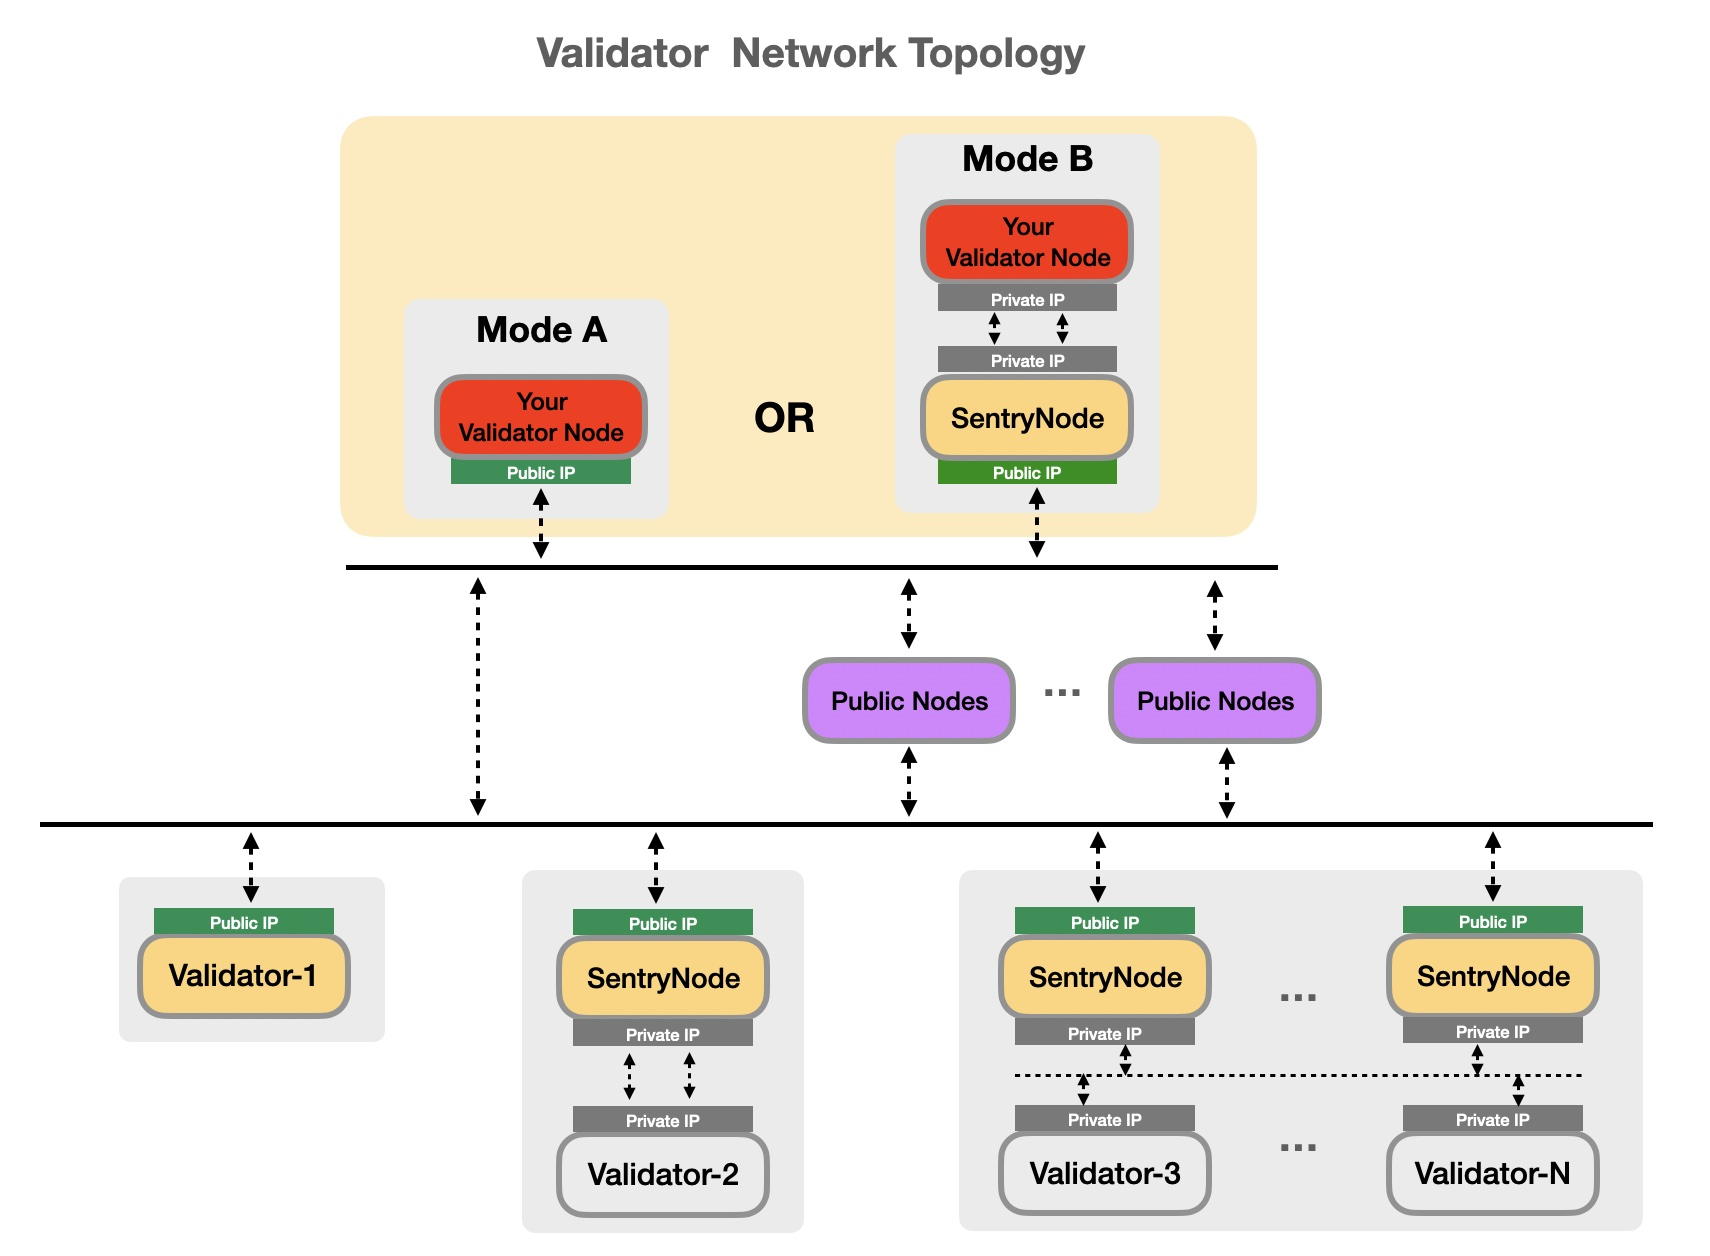
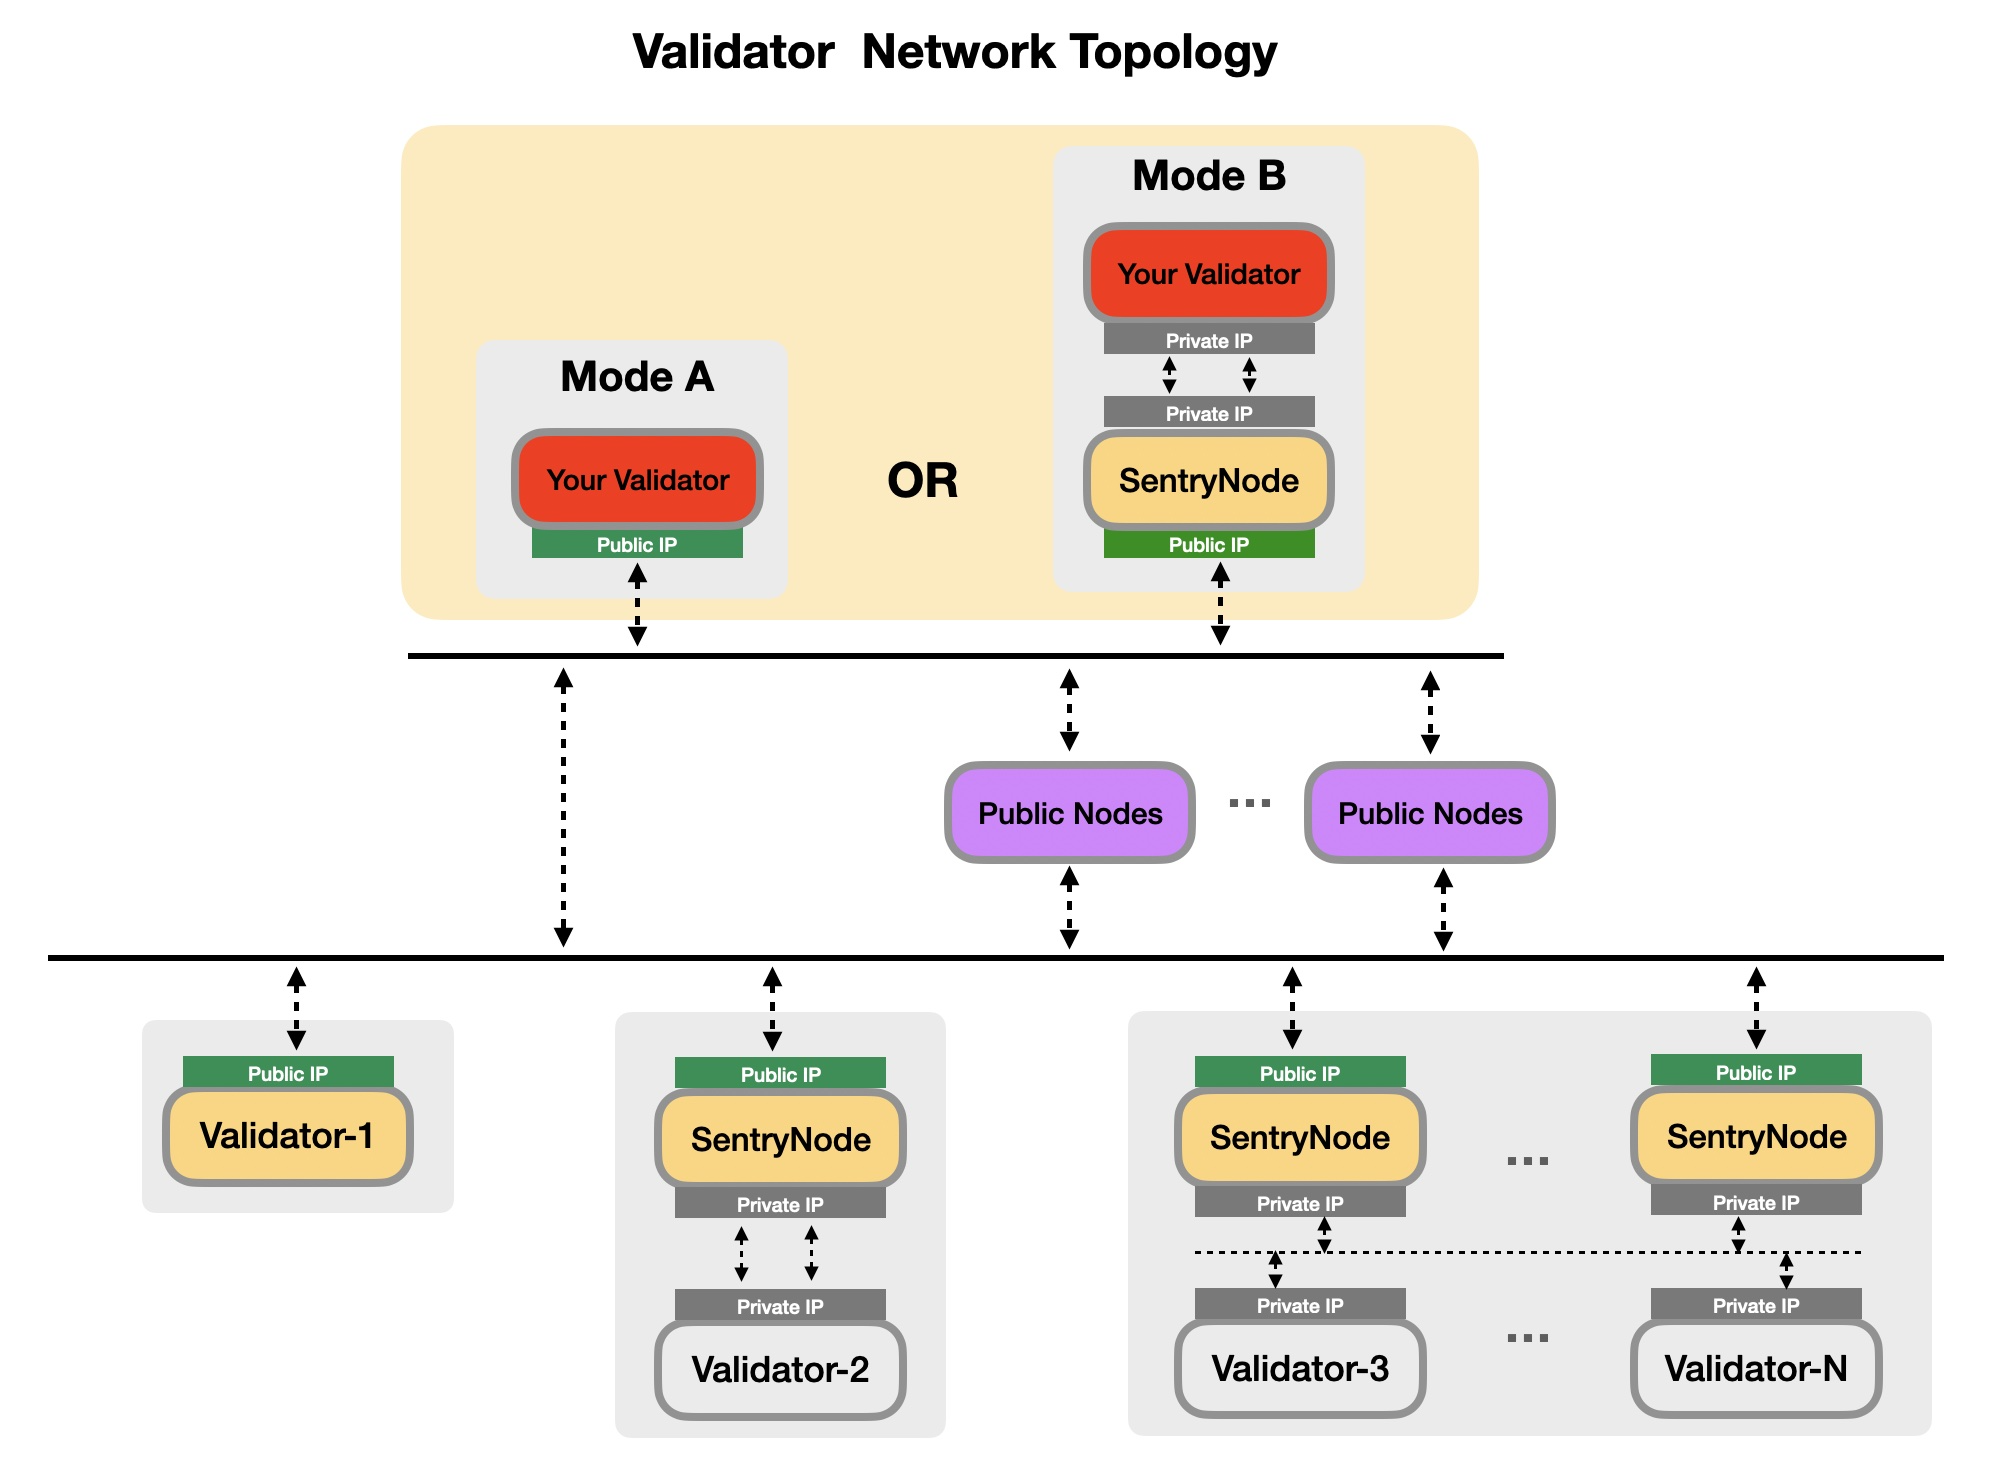
validator: refine the words

diff --git a/docs/bnb-smart-chain/validator/run-val.md b/docs/bnb-smart-chain/validator/run-val.md
@@ -130,10 +130,10 @@ miner.start()
 
 ## Some Tips & Tools
 ### 1.Run backup node
-Backup node could help in case your validator node run into trouble for various reasons.
+Backup node could help when your primary validator node encounters issues due to a variety of potential reasons, ensuring the continuity and reliability of your participation in the network.
 
 ### 2.How to check your node’s stability
-There is javascript in the BSC repo to dump the slash information for each validator.
+There is a javascript in BSC repo to dump the slash status of each validator.
 ```
 cd <bsc>/cmd/jsutils
 # 1.to dump the slashes of the lates block:
@@ -142,12 +142,12 @@ node getslashcount.js --Rpc https://bsc-mainnet.nodereal.io/v1/454e504917db4f82b
 # 2.you may also specify the block number:
 node getslashcount.js --Rpc https://bsc-mainnet.nodereal.io/v1/454e504917db4f82b756bd0cf6317dce --Num 39938351
 ```
-If your validator is stable, there should be very few or even zero slashes for each day. Basically, if your validator got slashed for more then 3 times for 1 day, it may worth a check.
+If your validator operates smoothly, you should expect minimal or even no penalties, known as "slashes," on a daily basis. Generally speaking, if your validator incurs more than three slashes within a single day, it would be prudent to investigate the cause for this anomaly.
 
 ### 3.About maintenance mode
-If your validator has been slashed for 50 times, it will enter maintenance mode. You need to check and recover your node ASAP, otherwise it could be in jail.
+Should your validator incur 50 slashes, it will automatically transition into maintenance mode. It is imperative to promptly diagnose and rectify any issues with your node to prevent further penalties. Failure to do so may result in your node being placed in a more restrictive state, often referred to as "jail."
 
-Once your node has been recovered, you need to exit the maintenance mode immediately, here is the manual : https://github.com/bnb-chain/bsc/blob/master/docs/parlia/README-BEP-127.md#exit-maintenance
+Upon successfully restoring your node's functionality, it is crucial to promptly [exit maintenance mode](https://github.com/bnb-chain/bsc/blob/master/docs/parlia/README-BEP-127.md#exit-maintenance) to resume normal operations and avoid any unnecessary downtime or penalties.
 ```
 // note: replace "0x75B851a27D7101438F45fce31816501193239A83" with your validator's consensus address.
 geth attach geth.ipc
@@ -155,9 +155,9 @@ web3.eth.sendTransaction({   from:  0x75B851a27D7101438F45fce31816501193239A83",
 ```
 
 ### 4.Filter peers by regex on name
-This feature was introduced by v1.4.6, it is mainly to filter out some peers that may have some issues and better not to connect with them.
-For detail, you may refer this PR: https://github.com/bnb-chain/bsc/pull/2404
-Basically, we don’t need this feature, but if some releases turn out to have some severe bugs, and we can not upgrade all nodes to the good release in a short time. Then we can use this feature to drop the peers of bad versions.
+This functionality was introduced with version [1.4.6](https://github.com/bnb-chain/bsc/releases/tag/v1.4.6), primarily designed to identify and exclude peers that may present operational challenges, thereby preventing connections with them. For further details, please refer to this Pull Request: [PR #2404](https://github.com/bnb-chain/bsc/pull/2404).
+
+Generally, this feature is not necessary for regular operation. However, in the event that a release contains critical bugs and an immediate upgrade of all nodes to a stable version is not feasible, this feature can be employed to disconnect from peers running the problematic versions. This serves as a temporary solution to mitigate the impact of the bugs until a comprehensive upgrade can be performed.
 
 For example, if v1.4.9 has known issues, we wanna disconnect nodes of this version, you may update your `config.toml` and restart:
 ```

diff --git a/docs/bnb-smart-chain/validator/overview.md b/docs/bnb-smart-chain/validator/overview.md
@@ -27,14 +27,12 @@ This measure aims to encourage more validators to participate in the consensus, 
 
 Validators on the BSC are nodes responsible for producing blocks and securing the network through the [POSA consensus mechanism](https://github.com/bnb-chain/whitepaper/blob/master/WHITEPAPER.md#consensus-and-validator-quorum).
 They participate in packaging transactions, creating and validating blocks to secure the BSC network, earning BNB tokens as rewards in exchange.
-## Validator's Network Topology
-![validator network topology](../img/validator-network-topology.png)
-BSC validators are connected to each other based on the P2P network, they can be connected directly or indirectly. As a validator node, it can be run with 2 modes:
-- Mode A(easy): Expose your validator's public IP directly, so it will join the P2P network directly. It can be connected to other validators or other full nodes. It is the simplest way and with high efficiency as it has less network hops, but it has some potential secure risk, as hacker could hack into your node if there is some security vulnerability.
-- Mode B(secure): Hide your validator node behind 1 or more SentryNodes, which is just a normal BSC full node. The SentryNode serves as a bridge between the hidden validator node and public P2P network,
-it mainly protects the validator from attacks like DDOS or some security flaws.
+## The Network Topology
+![validator network topology](../img/validator/validator-network-topology.png){:style="width:600px"}
 
-Both mode A and mode B are ok, if you have confidence with your node’s security, then mode A would have lower network latency.
+Validators on the BSC network are interconnected through a peer-to-peer (P2P) network, allowing for both direct and indirect connections. As a validator node operator, you have two operational modes to choose from:
+- **Mode A(Ease of Use)**: You can expose your validator's public IP address directly to the P2P network, which facilitates a direct connection. This mode is the most straightforward and offers high efficiency due to fewer network hops. However, it comes with potential security risks, as hackers could exploit vulnerabilities in your node to gain access.
+- **Mode B(Enhanced Security)**: This mode conceals your validator node behind one or more SentryNodes, which are essentially regular BSC full nodes. The SentryNode acts as a protective intermediary between your hidden validator node and the public P2P network. It primarily shields the validator from threats such as DDoS attacks and other security vulnerabilities.
 
 ## Economics
 
